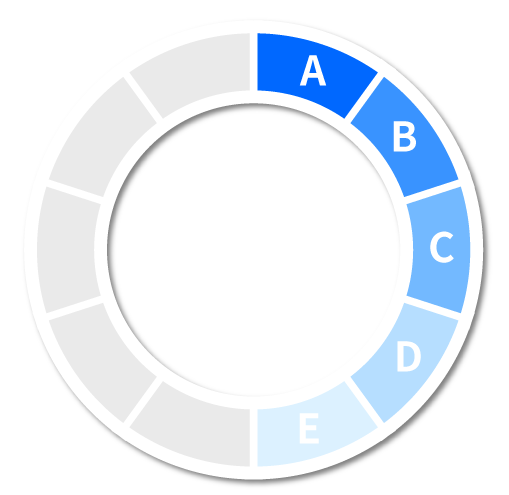
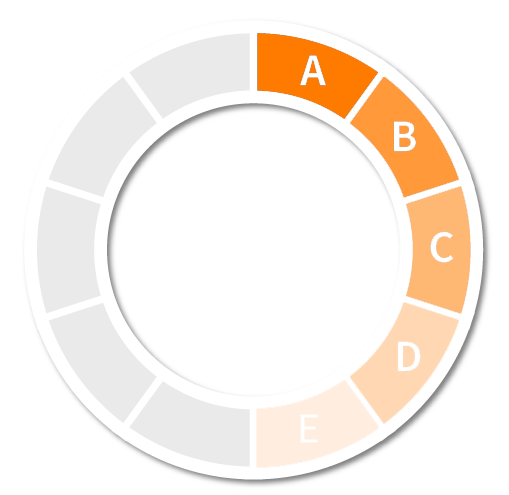
커리큘럼

Changed region(s): [[0.501, 0.0606, 0.943, 0.9697]]

diff --git a/curriculum.html b/curriculum.html
@@ -11,6 +11,10 @@
     <link rel="stylesheet" href="css/curriculum.css" />
     <link
       rel="stylesheet"
+      href="https://cdn.jsdelivr.net/npm/swiper@11/swiper-bundle.min.css"
+    />
+    <link
+      rel="stylesheet"
       href="https://cdnjs.cloudflare.com/ajax/libs/font-awesome/6.6.0/css/all.min.css"
       integrity="sha512-Kc323vGBEqzTmouAECnVceyQqyqdsSiqLQISBL29aUW4U/M7pSPA/gEUZQqv1cwx4OnYxTxve5UMg5GT6L4JJg=="
       crossorigin="anonymous"
@@ -172,25 +176,89 @@
             <img src="img/curricurrum_hand.png" />
           </li>
           <li>
-            <h2>학력 진단테스트</h2>
-            <h5><span>학년별 9LEVEL 114종</span>의 다양한 테스트지</h5>
+            <h2>계산력 진단테스트</h2>
+            <h5><span>A부터I까지 단계별 계산력 테스트</span>계산력 테스트</h5>
             <div class="text_wrap">
               <h4>
                 <i class="fa-solid fa-circle-check"></i>
-                <span>원생의 학습 수준 파악 용이</span>
+                기초계산력 수준 파악 필수 테스트
               </h4>
               <h4>
                 <i class="fa-solid fa-circle-check"></i>
-                학기 기준 / 최근 학습 단원 기준 테스트로 수준별 반편성 기준 제시
+                속도성과 정확성 측정을 통해 <span>개인별</span> 연산 능력 확인
               </h4>
               <h4>
                 <i class="fa-solid fa-circle-check"></i>
-                테스트 결과에 따른 분석표를 통해 학무모 상담까지
-                <span>완벽하게 OK!</span>
+                테스트 결과 분석을 통해 개인별 맞춤 Start Point 제시
               </h4>
             </div>
           </li>
         </ul>
+      </section>
+      <section class="con5">
+        <ul>
+          <li>
+            <img src="img/medal1.png" />
+            <h3>KTC수학경시대회 특허 등록</h3>
+            <p>[빅데이터 기반 수학문제 제공]</p>
+          </li>
+          <li>
+            <img src="img/medal2.png" />
+            <h3>문제은행 시스템 특허 등록</h3>
+            <p>[학습자 맞춤형 수학문제 출제 로직]</p>
+          </li>
+          <li>
+            <img src="img/medal3.png" />
+            <h3>2024 고객만족 브랜드 대상</h3>
+            <p>[2년 연속 수상, 수학문제은행 부문 1위]</p>
+          </li>
+          <li>
+            <img src="img/medal4.png" />
+            <h3>경영혁신형 중소기업 인증</h3>
+            <p>Management Innovation Business</p>
+          </li>
+          <li>
+            <img src="img/medal5.png" />
+            <h3>품질경영시스템 인증</h3>
+            <p>[ISO 9001:2015]</p>
+          </li>
+          <li>
+            <img src="img/medal6.png" />
+            <h3>대한민국 교육브랜드 대상</h3>
+            <p>[3년 연속 수상,수학교육 부문]</p>
+          </li>
+          <li>
+            <img src="img/medal7.png" />
+            <h3>한국기록원 기네스 선정</h3>
+            <p>[가평점 런칭 최다 개설]</p>
+          </li>
+          <li>
+            <img src="img/medal8.png" />
+            <h3>KTC수학경시대회 특허 등록</h3>
+            <p>[빅데이터 기반 수학문제 제공]</p>
+          </li>
+        </ul>
+      </section>
+      <section class="con6">
+        <h2><span>새로움학원</span><br />모집 프로그램</h2>
+        <p>
+          "대성의 N수, 차이를 넘어 차원이 다르다!"<br /><span
+            >대성학원은 매년 달라지는 새로운 입시제도에 맞춰 시즌별로 모집
+            프로그램을 운영하고 있습니다.</span
+          >
+        </p>
+        <div class="swiper mySwiper">
+          <div class="swiper-wrapper">
+            <div class="swiper-slide"><img src="img/swiper_img_1.jpg" /></div>
+            <div class="swiper-slide"><img src="img/swiper_img_2.jpg" /></div>
+            <div class="swiper-slide"><img src="img/swiper_img_3.jpg" /></div>
+            <div class="swiper-slide"><img src="img/swiper_img_4.jpg" /></div>
+            <div class="swiper-slide"><img src="img/swiper_img_5.jpg" /></div>
+          </div>
+        </div>
+      </section>
+      <section class="con7">
+        
       </section>
     </div>
     <div id="footer">
@@ -242,5 +310,18 @@
         </li>
       </ul>
     </div>
+    <script src="https://cdn.jsdelivr.net/npm/swiper@11/swiper-bundle.min.js"></script>
+    <script>
+      var swiper = new Swiper(".mySwiper", {
+        effect: "cards", // 카드 효과
+        grabCursor: true, // 드래그할 수 있도록 커서 표시
+        loop: true, // 무한 루프
+        autoplay: {
+          // 자동 슬라이드
+          delay: 2500, // 2.5초마다 자동으로 슬라이드 변경
+          disableOnInteraction: false, // 사용자가 슬라이드를 넘기면 자동 슬라이드 다시 시작
+        },
+      });
+    </script>
   </body>
 </html>

diff --git a/css/curriculum.css b/css/curriculum.css
@@ -360,14 +360,14 @@ body {
 }
 
 .con3 ul li:nth-child(2) span {
-  color: #006eff;
+  color: #ff7b00;
 }
 
 .equar {
   margin-right: 1vw;
   padding: 0vw 0.4vw;
   border-radius: 50%;
-  background-color: #006eff;
+  background-color: #ff7b00;
   color: #fff !important;
 }
 
@@ -376,7 +376,7 @@ body {
   padding: 0.7vw 1vw;
   border-radius: 3vw;
   box-sizing: border-box;
-  background-color: #e9f3ff;
+  background-color: #fff2e6;
 }
 
 .con3 ul {
@@ -389,11 +389,14 @@ body {
 /*con4*/
 
 .con4 {
+  padding: 3vw;
+  box-sizing: border-box;
+  background-color: #fff2e6;
   display: flex;
   justify-content: center;
   flex-direction: column;
   width: 100%;
-  height: 150vh;
+  height: 100vh;
 }
 
 .con4 h2 {
@@ -403,11 +406,17 @@ body {
 }
 
 .con4 h5 span {
-  color: #006eff;
+  color: #ff7b00;
 }
 
-.con5 h5 {
-  font-size: 1.5vw;
+.con4 i {
+  margin-right: 0.5vw;
+  color: #ff7b00;
+}
+
+.con4 h5 {
+  font-size: 1vw;
+  margin-bottom: 1vw;
 }
 
 .con4 ul {
@@ -415,6 +424,103 @@ body {
   align-items: center;
   display: flex;
   justify-content: space-around;
+}
+
+.text_wrap {
+  border-radius: 1vw;
+  box-sizing: border-box;
+  padding: 1vw;
+  background-color: #fff;
+  box-shadow: rgba(0, 0, 0, 0.24) 0px 3px 8px;
+}
+
+.text_wrap h4 {
+  line-height: 2vw;
+}
+
+.text_wrap span {
+  color: #ff7b00;
+}
+
+/*con5*/
+
+.con5 {
+  padding: 2vw;
+  box-sizing: border-box;
+  text-align: center;
+  width: 100%;
+  text-wrap: nowrap;
+}
+
+.con5 h3 {
+  font-size: 1vw;
+  width: 100%;
+}
+
+.con5 p {
+  font-weight: 700;
+  color: #ff7b00;
+  font-size: 0.7vw;
+}
+
+.con5 ul {
+  display: flex;
+  justify-content: center;
+  gap: 1vw;
+}
+
+/*con6*/
+
+.con6 {
+  background-color: #f0f0f0;
+  text-align: center;
+  width: 100%;
+  height: 80vh;
+}
+
+.con6 h2 span {
+  color: #ff7b00;
+}
+
+.con6 h2 {
+  line-height: 2vw;
+  padding-top: 5vw;
+  padding-bottom: 1vw;
+  box-sizing: border-box;
+  margin: auto;
+  font-size: 1.5vw;
+}
+
+.con6 p {
+  margin: auto;
+  width: 20%;
+}
+
+.swiper {
+  margin-top: 3vw;
+  width: 240px;
+  height: 320px;
+}
+
+.swiper img {
+  width: 100%;
+  object-fit: cover;
+  transition: 0.5s;
+}
+
+.swiper-slide {
+  display: flex;
+  align-items: center;
+  justify-content: center;
+  border-radius: 18px;
+  font-size: 22px;
+  font-weight: bold;
+  color: #fff;
+  box-shadow: rgba(0, 0, 0, 0.24) 0px 3px 8px;
+}
+
+.swiper-slide img:hover {
+  transform: scale(1.1);
 }
 
 /*footer*/
